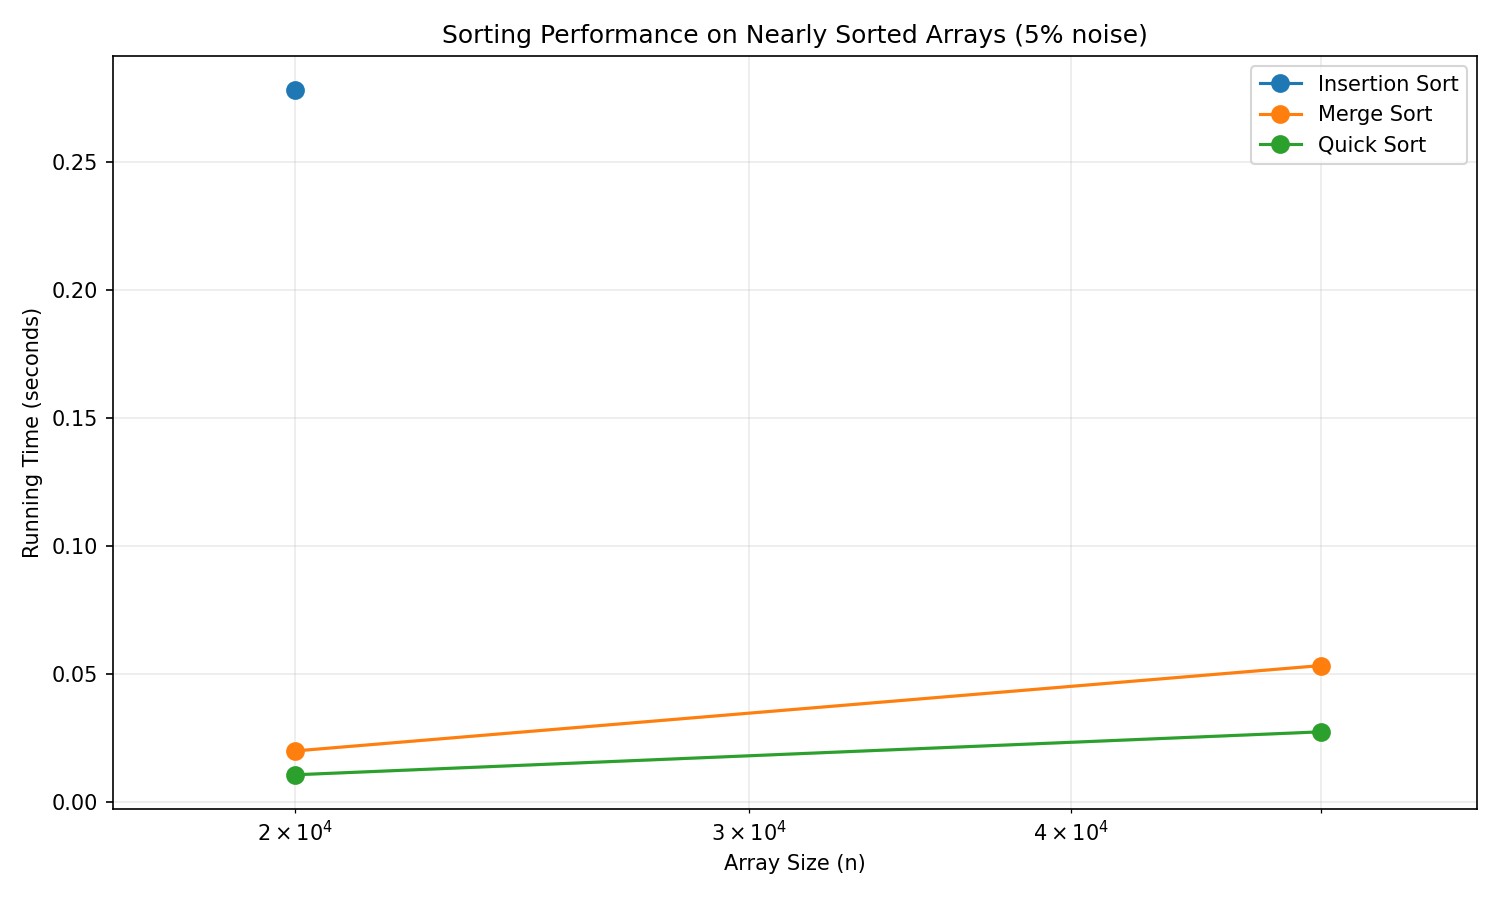
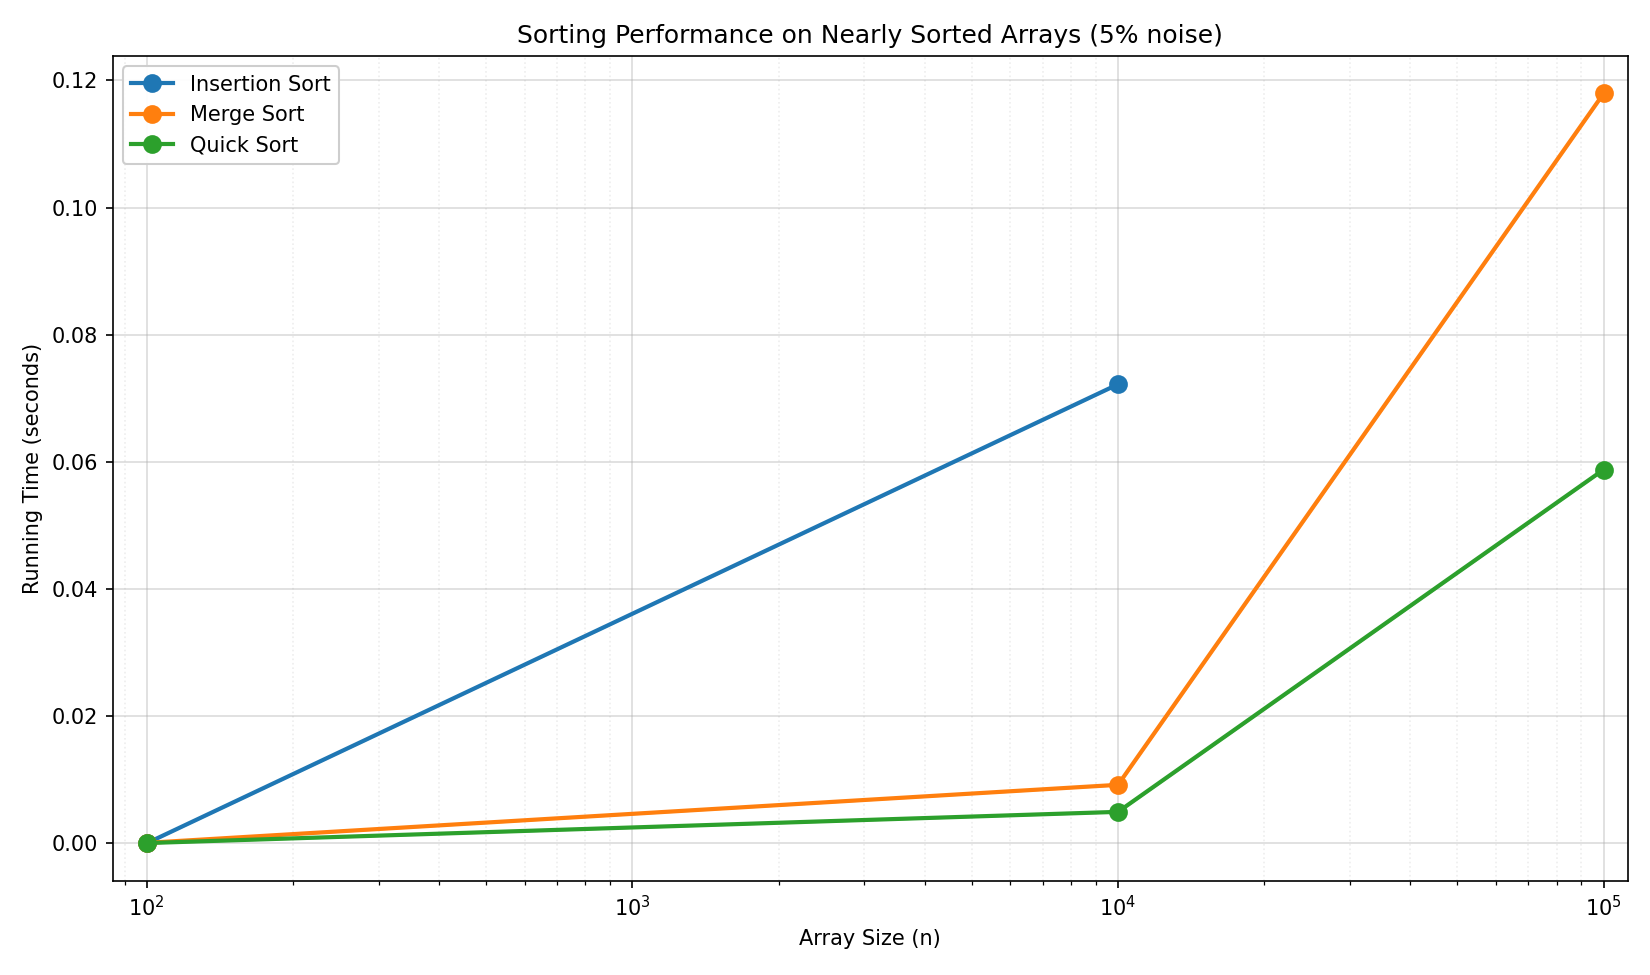
Enhance README for clarity on algorithm implementations and execution instructions; update run_experiments.py to include additional default sizes, improve plotting aesthetics, and refine error handling for single-point measurements.

diff --git a/run_experiments.py b/run_experiments.py
@@ -25,6 +25,9 @@ MAX_INSERTION_SORT_SIZE = 20_000
 NOT_IMPLEMENTED_IDS = frozenset({1, 2})
 DEFAULT_RANDOM_SEED = 42
 DEFAULT_SIZES = [
+    100,
+    500,
+    1_000,
     5_000,
     10_000,
     20_000,
@@ -251,36 +254,77 @@ def run_experiment(
 
 
 def plot_results(metrics: dict[str, list[Measurement]], output_path: str, title: str) -> None:
-    plt.figure(figsize=(10, 6))
+    plt.figure(figsize=(11, 6.5))
     prop_cycle = plt.rcParams["axes.prop_cycle"].by_key().get("color", ["#1f77b4", "#ff7f0e", "#2ca02c"])
     all_sizes: list[int] = []
-    for idx, (name, measurements) in enumerate(metrics.items()):
+    series_index = 0
+    for _, (name, measurements) in enumerate(metrics.items()):
         active = [m for m in measurements if not m.skipped and not math.isnan(m.mean_seconds)]
         if not active:
             continue
-        color = prop_cycle[idx % len(prop_cycle)]
+        color = prop_cycle[series_index % len(prop_cycle)]
+        series_index += 1
         x = [m.size for m in active]
         all_sizes.extend(x)
         y = [m.mean_seconds for m in active]
         yerr = [0.0 if math.isnan(m.std_seconds) else m.std_seconds for m in active]
-        lower = [max(0.0, yi - ei) for yi, ei in zip(y, yerr)]
-        upper = [yi + ei for yi, ei in zip(y, yerr)]
-        plt.fill_between(x, lower, upper, alpha=0.25, color=color)
-        plt.plot(x, y, marker="o", markersize=8, label=name, color=color)
-        if any(e > 0 for e in yerr):
-            plt.errorbar(x, y, yerr=yerr, fmt="none", capsize=3, alpha=0.65, linewidth=1, color=color, ecolor=color)
+        if len(x) == 1:
+            if yerr[0] > 0:
+                plt.errorbar(
+                    x[0],
+                    y[0],
+                    yerr=yerr[0],
+                    fmt="none",
+                    color=color,
+                    ecolor=color,
+                    capsize=6,
+                    capthick=2,
+                    elinewidth=2,
+                    zorder=4,
+                )
+            plt.scatter(
+                x,
+                y,
+                s=320,
+                marker="D",
+                c=color,
+                edgecolors="black",
+                linewidths=2.0,
+                label=f"{name} (single point)",
+                zorder=5,
+            )
+        else:
+            lower = [max(0.0, yi - ei) for yi, ei in zip(y, yerr)]
+            upper = [yi + ei for yi, ei in zip(y, yerr)]
+            plt.fill_between(x, lower, upper, alpha=0.25, color=color)
+            plt.plot(x, y, marker="o", markersize=8, label=name, color=color, linewidth=2)
+            if any(e > 0 for e in yerr):
+                plt.errorbar(
+                    x,
+                    y,
+                    yerr=yerr,
+                    fmt="none",
+                    capsize=4,
+                    alpha=0.75,
+                    linewidth=1.2,
+                    color=color,
+                    ecolor=color,
+                )
+    ax = plt.gca()
     if all_sizes:
         lo, hi = min(all_sizes), max(all_sizes)
-        if lo > 0 and hi / lo >= 2:
+        if lo > 0:
             plt.xscale("log")
-            plt.xlim(lo * 0.85, hi * 1.15)
-        else:
-            plt.xlim(0.0, hi * 1.05 if hi > 0 else 1.0)
+            if lo == hi:
+                plt.xlim(lo * 0.75, hi * 1.35)
+            else:
+                plt.xlim(lo * 0.85, hi * 1.12)
     plt.xlabel("Array Size (n)")
     plt.ylabel("Running Time (seconds)")
     plt.title(title)
-    plt.legend()
-    plt.grid(True, which="both", alpha=0.25)
+    plt.legend(loc="best", framealpha=0.95, fontsize=10)
+    ax.grid(True, which="major", linestyle="-", alpha=0.45)
+    ax.grid(True, which="minor", linestyle=":", alpha=0.22)
     plt.tight_layout()
     plt.savefig(output_path, dpi=150)
     plt.close()

diff --git a/README.md b/README.md
@@ -1,45 +1,75 @@
 # Sorting_Assignment
 
-## Student Name:
-- Yoav Hamburger
+## Student Name
+- **Yoav Hamburger**
 
 ## Selected Algorithms
-Per the assignment list, this submission implements and compares:
+This submission implements and compares (course IDs **3**, **4**, **5**):
 - **3** – Insertion Sort  
 - **4** – Merge Sort  
 - **5** – Quick Sort  
 
-The course table lists IDs **1–5** (Bubble, Selection, Insertion, Merge, Quick). This code implements **Insertion, Merge, and Quick** (3–5). If you pass **1** or **2**, the program prints **Not implemented** and continues with the remaining IDs.
+IDs **1** (Bubble) and **2** (Selection) are listed in the assignment table but are **not implemented**; if you include them in `-a`, the program prints a warning and continues with the remaining algorithms.
 
-## How To Run
+---
 
-Recommended (uses built-in sizes **5,000 … 1,000,000** — omit `-s` so the x-axis is not stuck on small `n`):
+## Quick Start
 
-`py run_experiments.py -a 3 4 5 -e 1 -r 10`
+```bash
+python run_experiments.py -a 3 4 5 -e 1 -r 10
+```
 
-Assignment-style example with explicit sizes (must include large `n` if you want a wide x-axis):
+On Windows, if `python` is not on your PATH, use `py` instead:
 
-`python run_experiments.py -a 3 4 5 -s 5000 10000 50000 100000 -e 1 -r 20`
+```bash
+py run_experiments.py -a 3 4 5 -e 1 -r 10
+```
 
-If you use only small sizes (e.g. `-s 100 500 1000`), the plot will only span that range.
+**Omit `-s`** to use the built-in default size list from **n = 100** through **n = 1,000,000** (log-spaced steps). That default is tuned so curves show both small-`n` behavior and large-scale growth without typing a long size list.
 
-CLI:
-- **`-a`** – exactly three IDs from **1–5** (unimplemented **1–2** are skipped with a warning)
-- **`-s`** – array sizes (optional; default starts at **5,000** and goes up to **1,000,000**)
-- **`-e`** – `1` = nearly sorted with **5%** of positions perturbed, `2` = **20%** (shuffle within a sampled index set)
-- **`-r`** – repetitions per size
+Other useful flags:
+- **`-s`** – explicit sizes (overrides the default)
+- **`-e 1`** – nearly sorted experiment with **5%** of indices perturbed; **`-e 2`** – **20%**
+- **`-r`** – repetitions per size (more repetitions → smoother mean/std)
 
-**Insertion Sort** is not run for **n > 20,000** (warning + skipped point) so huge sizes do not hang.
+---
 
-Outputs: **`result1.png`** (random arrays), **`result2.png`** (nearly sorted with noise).
+## Engineering: insertion cap (safety valve)
 
-## Result 1 - Random Arrays
+**Insertion Sort** is **not executed for n > 20,000**. The program prints a warning, records a skipped measurement, and still plots **Merge** and **Quick** at larger sizes.
+
+This is a deliberate **engineering trade-off**: insertion is **O(n²)**; at **n = 1,000,000** a single run could take hours or appear to hang, while **O(n log n)** algorithms remain practical. The cap keeps batch experiments reliable and reproducible on a typical laptop while still showing the quadratic-vs-log-linear gap up to **n = 20,000** for insertion.
+
+---
+
+## Plots: logarithmic X-axis
+
+**`result1.png`** and **`result2.png`** use a **logarithmic scale on the X-axis** (array size **n**).
+
+Sizes span orders of magnitude (from **100** to **1,000,000** in the default configuration). On a linear axis, points at small **n** would collapse near the origin and the **O(n²)** vs **O(n log n)** growth shapes would be hard to read. A log-scaled **n** spreads those points and makes the **different asymptotic growth rates** visible on one figure.
+
+---
+
+## Result 1 – Random arrays
 ![Random arrays comparison](result1.png)
 
-Insertion Sort grows much faster than Merge Sort and Quick Sort as `n` increases, which matches expected time complexity behavior (`O(n^2)` vs `O(n log n)`).  
-Merge Sort and Quick Sort remain significantly faster and scale better for larger inputs.
+On **random** data, **Insertion Sort** exhibits **quadratic** growth in practice: many element **shifts** per insert. **Merge Sort** and **Quick Sort** scale as **O(n log n)** in typical cases, so their runtimes grow much more slowly as **n** increases. The plot (log **n**, linear time) highlights that structural gap.
 
-## Result 2 - Nearly Sorted Arrays
+---
+
+## Result 2 – Nearly sorted arrays
 ![Nearly sorted comparison](result2.png)
 
-For **result2**, running times change versus **result1** because the input starts sorted and is only partially perturbed (random swaps at the chosen noise level). Insertion Sort improves the most on nearly sorted data because it makes fewer shifts when the sequence is already close to order. Merge Sort and Quick Sort still perform well; the relative gaps between algorithms narrow compared to fully random inputs.
+**Nearly sorted** inputs are built from a sorted array with a controlled fraction of positions perturbed (experiment types **1** / **2**).
+
+**Insertion Sort** improves **dramatically** here because its inner loop does almost no work when each new key is already close to its final position: in the **best case** (fully sorted input) insertion is **O(n)**; with **small noise** the behavior stays close to that—far fewer **shifts** than on random data.
+
+**Merge Sort** is **O(n log n)** **regardless of input order**: it always performs the same divide-and-merge work, so it does **not** get the same asymptotic “boost” as insertion on nearly sorted data.
+
+Because insertion moves toward **linear-time** behavior while merge (and typical quicksort on this implementation) stay **n log n**, the **performance gap between insertion and the divide-and-conquer sorts closes** compared to **result1**, even though merge remains asymptotically the same class as before.
+
+---
+
+## Outputs
+- **`result1.png`** – random arrays  
+- **`result2.png`** – nearly sorted arrays (noise level set by **`-e`**)
